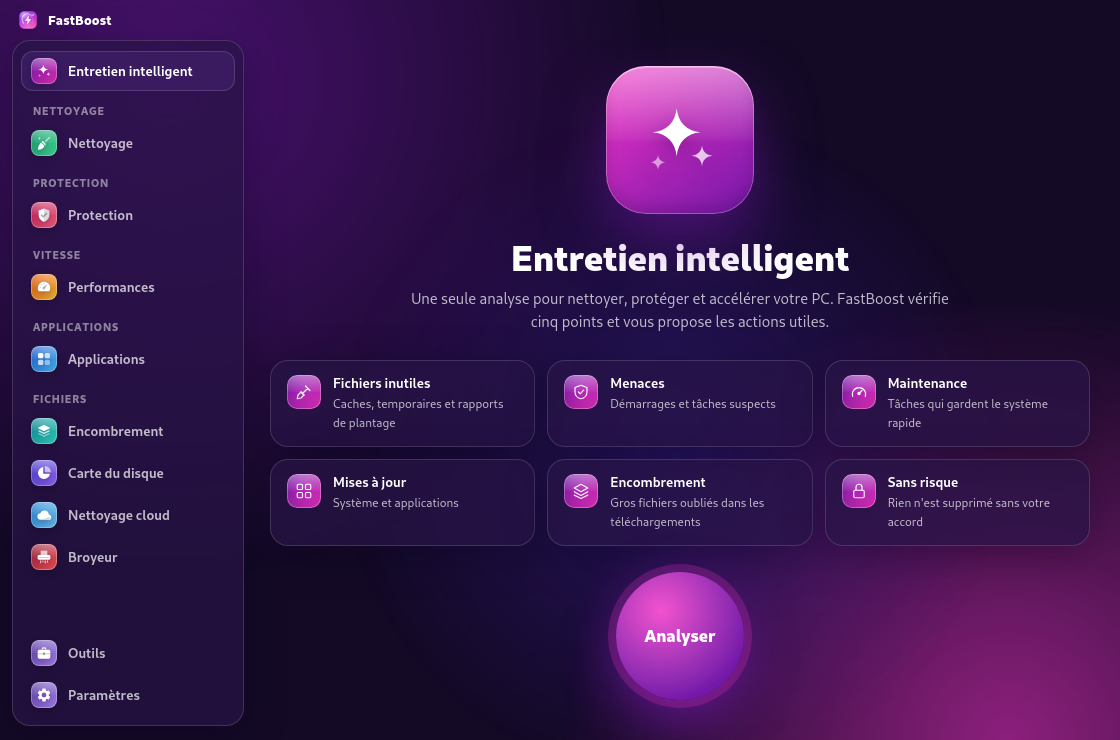
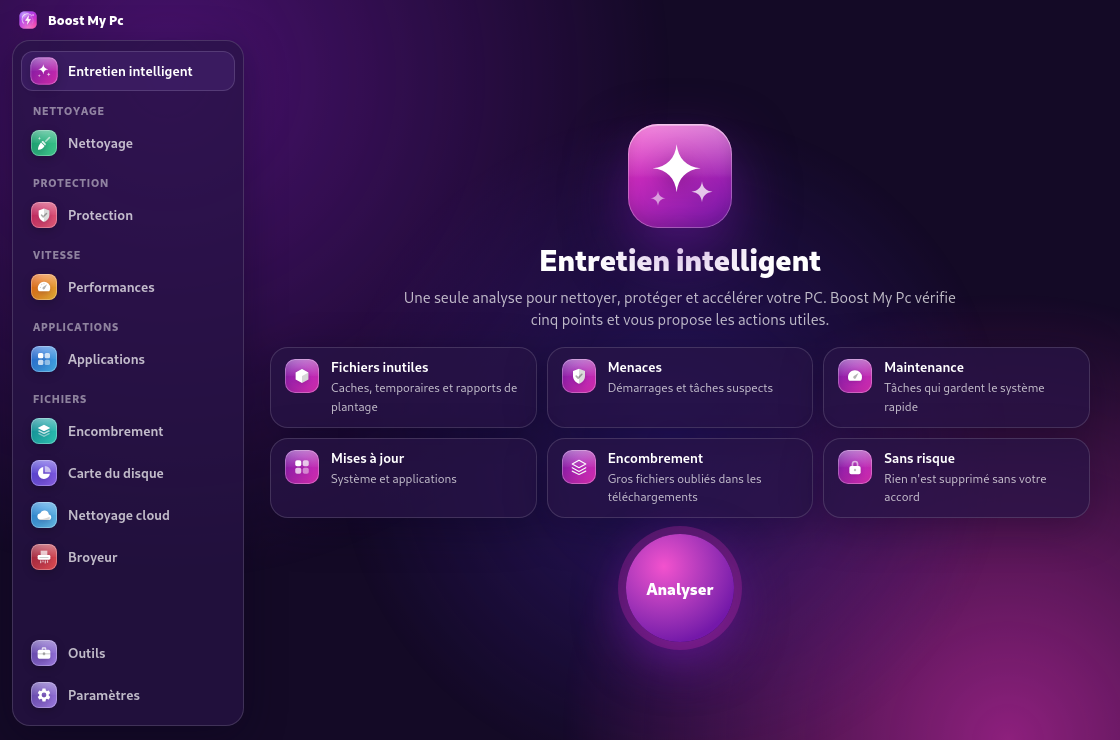
Corrections de bugs et captures du README à jour
- Démarrage : Entretien intelligent s'affiche tout de suite ; cliquer sur
  un module pendant le chargement ne ramène plus à l'accueil. Le mode
  allégé s'applique avant le premier affichage.
- Entretien intelligent : relancer après « Arrêter » n'exécute plus deux
  analyses en même temps. Tuiles compactes dans les petites fenêtres,
  hauteur limitée dans les grandes.
- Écrans d'accueil des modules : plus coupés en haut dans une petite
  fenêtre ; le bouton Analyser reste visible.
- Carte du disque : liste sous la carte dans les fenêtres étroites.
- Restes, Démarrage : bouton du coin replacé en vue liste.
- Vue d'ensemble : la carte pleine largeur n'est plus trop haute.
- Nettoyage : une icône par catégorie.
- Désinstallation et corbeille : plus d'erreur si on change de page
  pendant l'opération.
- Paramètres : plus de séparateur orphelin, « – » si la carte graphique
  est inconnue.
- README : les 13 captures Linux refaites (scripts/readme-shots.sh).

diff --git a/src/renderer/styles.css b/src/renderer/styles.css
@@ -141,7 +141,7 @@ h2 { font-size: 16px; font-weight: 800; margin: 24px 0 10px; }
 .small { font-size: 12px; }
 
 /* ---------- Module home screen ---------- */
-.intro { flex: 1; display: flex; flex-direction: column; align-items: center; justify-content: center; text-align: center; padding: 10px 0 0; }
+.intro { flex: 1; display: flex; flex-direction: column; align-items: center; justify-content: safe center; text-align: center; padding: 10px 0 0; }
 .hero-icon {
   width: 148px; height: 148px; border-radius: 40px; display: flex; align-items: center; justify-content: center; color: #fff;
   background: linear-gradient(145deg, var(--a2), var(--a1)); box-shadow: 0 24px 60px color-mix(in srgb, var(--a1) 55%, transparent), inset 0 2px 0 rgba(255, 255, 255, .35);
@@ -170,7 +170,7 @@ h2 { font-size: 16px; font-weight: 800; margin: 24px 0 10px; }
 .scan-btn:disabled { cursor: default; opacity: .7; transform: none; }
 
 /* Scan progress ring */
-.scanning { flex: 1; display: flex; flex-direction: column; align-items: center; justify-content: center; gap: 18px; text-align: center; }
+.scanning { flex: 1; display: flex; flex-direction: column; align-items: center; justify-content: safe center; gap: 18px; text-align: center; }
 .ring-big { width: 190px; height: 190px; position: relative; }
 .ring-big svg { transform: rotate(-90deg); }
 .ring-big .ring-center { position: absolute; inset: 0; display: flex; flex-direction: column; align-items: center; justify-content: center; }
@@ -260,6 +260,23 @@ input[type=checkbox] { width: 19px; height: 19px; accent-color: var(--a2); curso
 .cards { display: grid; gap: 12px; }
 .c2 { grid-template-columns: repeat(2, minmax(0, 1fr)); }
 .c3 { grid-template-columns: repeat(3, minmax(0, 1fr)); }
+@media (max-width: 1000px) { .c3 { grid-template-columns: repeat(2, minmax(0, 1fr)); } }
+/* Low windows: smaller module home screen so the button stays visible. */
+@media (max-height: 760px) {
+  .hero-icon { width: 104px; height: 104px; border-radius: 30px; margin-bottom: 14px; }
+  .hero-icon .svg-ico { width: 52px; height: 52px; }
+  .intro h1 { font-size: 30px; }
+  .intro .lead { margin-bottom: 12px; }
+  .features { margin: 4px 0 16px; gap: 10px; }
+  .feature { padding: 11px 14px; }
+  .scan-btn { width: 108px; height: 108px; font-size: 16px; }
+}
+@media (max-height: 640px) {
+  .intro .features { grid-template-columns: repeat(3, minmax(0, 1fr)); }
+  .feature { align-items: center; }
+  .feature span { display: none; }
+  .feature b { margin: 0; }
+}
 .c5 { grid-template-columns: repeat(5, minmax(0, 1fr)); }
 @media (max-width: 1100px) { .c5 { grid-template-columns: repeat(3, minmax(0, 1fr)); } .features { grid-template-columns: 1fr 1fr; } }
 .card { padding: 18px; }
@@ -330,6 +347,7 @@ input[type=checkbox] { width: 19px; height: 19px; accent-color: var(--a2); curso
 .tm-legend i, .tm-other-chip { width: 12px; height: 12px; border-radius: 4px; display: inline-block; }
 .tm-other-chip { background: repeating-linear-gradient(135deg, var(--glass-strong) 0 3px, var(--track) 3px 6px); }
 .lens-list { overflow-y: auto; max-height: 560px; }
+@media (max-width: 1000px) { .lens-wrap { grid-template-columns: minmax(0, 1fr); } .lens-list { max-height: none; } }
 .lens-list .row { min-height: 52px; gap: 10px; }
 .lens-dot { width: 12px; height: 12px; border-radius: 4px; flex-shrink: 0; box-shadow: 0 0 0 2px rgba(255, 255, 255, .15); }
 .lens-bar { margin-top: 6px; height: 5px; }
@@ -392,7 +410,9 @@ input[type=checkbox] { width: 19px; height: 19px; accent-color: var(--a2); curso
 .ov-sub { font-size: 16px; font-weight: 700; color: var(--text); opacity: .92; margin: 0 0 16px; }
 .ov-all { background: var(--glass-strong); }
 
-.ov-grid { display: grid; grid-template-columns: repeat(3, minmax(0, 1fr)); grid-auto-rows: minmax(158px, auto); gap: 14px; }
+.ov-grid { display: grid; grid-template-columns: repeat(3, minmax(0, 1fr)); grid-auto-rows: auto; gap: 14px; }
+.ov-grid > .ov-card { min-height: 158px; }
+.ov-grid > .ov-card.full { min-height: 96px; }
 .ov-card {
   position: relative; padding: 18px 18px 14px; display: flex; flex-direction: column; gap: 6px; min-height: 158px;
   border-radius: 20px; transition: transform .15s ease, background .15s ease;
@@ -519,14 +539,15 @@ body:not(.view-cards) .pick-card > .pc-sub, body:not(.view-cards) .pick-card > .
 body:not(.view-cards) .pick-card > .pc-pills { display: flex; }
 body:not(.view-cards) .pick-card > .pc-sub + .pc-sub, body:not(.view-cards) .pick-card > .bar { display: none; }
 body:not(.view-cards) .pc-foot { grid-area: foot; margin: 0; padding: 0; min-height: 0; flex-wrap: nowrap; justify-content: flex-end; }
-body:not(.view-cards) .pc-corner { position: relative; top: auto; right: auto; grid-area: corner; }
+body:not(.view-cards) .pick-card > .pc-corner { position: relative; inset: auto; grid-area: corner; }
 
 /* ---------- Smart Care: tiles around a round button ---------- */
 .sc-head { text-align: center; margin-bottom: 10px; }
 .sc-head h1 { margin: 2px 0 2px; }
 .sc-head .lead { margin: 0; min-height: 22px; }
+.page:has(> .sc-grid) { justify-content: safe center; }
 .sc-grid {
-  flex: 1; display: grid; gap: 12px;
+  flex: 1; max-height: 700px; display: grid; gap: 12px;
   grid-template-columns: minmax(0, 1fr) minmax(0, 1.45fr) minmax(0, 1fr);
   grid-template-rows: minmax(120px, 1fr) minmax(120px, 1fr) minmax(140px, auto);
   grid-template-areas: "clean hero perf" "clean hero perf" "apps center clut";
@@ -646,12 +667,42 @@ body:not(.view-cards) .pc-corner { position: relative; top: auto; right: auto; g
 .sc-hint { font-size: 12.5px; color: var(--text-2); font-weight: 700; min-height: 18px; }
 .link { border: 0; background: none; padding: 0; cursor: pointer; font-weight: 800; color: color-mix(in srgb, var(--a2) 70%, var(--text)); }
 .link:hover { text-decoration: underline; }
-@media (max-width: 1100px) {
-  .sc-grid {
-    grid-template-columns: minmax(0, 1fr) minmax(0, 1fr); grid-template-rows: none; grid-auto-rows: minmax(150px, auto);
-    grid-template-areas: "hero hero" "clean perf" "apps clut" "center center";
-  }
-  .sc-hero { min-height: 300px; }
+/* Small windows: same layout, more compact. */
+@media (max-width: 1100px), (max-height: 760px) {
+  .sc-head h1 { font-size: 25px; }
+  .sc-head .lead { font-size: 13px; }
+  .sc-head { margin-bottom: 8px; }
+  .sc-grid { gap: 10px; grid-template-rows: minmax(90px, 1fr) minmax(90px, 1fr) minmax(118px, auto); }
+  .sc-tile { padding: 14px 14px; border-radius: 22px; }
+  .sc-val { font-size: 19px; }
+  .sc-hero .sc-val { font-size: 21px; }
+  .sc-tile.wide .sc-val { font-size: 17px; }
+  .sc-sub { font-size: 11.5px; }
+  .sc-art { width: 104px; height: 104px; border-radius: 30px; right: -20px; bottom: -20px; }
+  .sc-art .svg-ico { width: 54px; height: 54px; }
+  .sc-tile.wide .sc-art { width: 92px; height: 92px; border-radius: 26px; right: -14px; bottom: -26px; }
+  .sc-tile.wide .sc-art .svg-ico { width: 46px; height: 46px; }
+  .sc-hero .sc-art { width: 130px; height: 130px; border-radius: 38px; right: -26px; top: -26px; }
+  .sc-hero .sc-art .svg-ico { width: 68px; height: 68px; }
+  .sc-log { gap: 4px; padding-top: 8px; }
+  .sc-log li { padding: 4px 10px; font-size: 12px; }
+  .sc-log-val { font-size: 11.5px; }
+  .sc-link { padding: 4px 8px 4px 12px; font-size: 11.5px; }
+  .sc-btn { width: 96px; height: 96px; font-size: 14px; }
+  .sc-btn span .svg-ico { width: 34px; height: 34px; }
+  .sc-hint { font-size: 11.5px; }
+}
+@media (max-height: 640px) {
+  .sc-head .lead { display: none; }
+  .sc-grid { grid-template-rows: minmax(80px, 1fr) minmax(80px, 1fr) minmax(104px, auto); }
+  .sc-log li { padding: 3px 10px; }
+  .sc-btn { width: 88px; height: 88px; }
+}
+@media (max-width: 1000px) {
+  .sc-text { max-width: 100%; }
+  .sc-hero .sc-text { max-width: calc(100% - 84px); }
+  .sc-tile.wide .sc-text { max-width: 100%; }
+  .sc-log-val { max-width: 48%; }
 }
 .confetti { position: fixed; width: 8px; height: 8px; border-radius: 2px; pointer-events: none; z-index: 100; animation: burst .95s cubic-bezier(.15, .7, .3, 1) both; }
 @keyframes burst { from { transform: translate(-50%, -50%); opacity: 1; } to { transform: translate(calc(var(--dx) - 50%), calc(var(--dy) - 50%)) rotate(260deg) scale(.4); opacity: 0; } }

diff --git a/src/renderer/app.js b/src/renderer/app.js
@@ -6,6 +6,7 @@ const IS_LINUX = pcm.platform === 'linux';
 document.body.classList.add(IS_LINUX ? 'linux' : 'windows');
 // Detail view mode: list by default, cards if the user chose them
 try { if (localStorage.getItem('detailView') === 'cards') document.body.classList.add('view-cards'); } catch {}
+document.body.classList.toggle('lite', !!pcm.lite);
 let CAPS = { platform: pcm.platform, tools: [], isAdmin: false };
 let PATHS = { home: '', pictures: '', downloads: '', root: '/' };
 const UPDATES_NAME = IS_LINUX ? 'Mises à jour du système' : 'Windows Update';
@@ -272,10 +273,11 @@ function bindSelection(root, { onDone, onAction, confirmText } = {}) {
     if (!paths.length) return;
     if (onAction) return onAction(paths);
     if (!(await confirmBox('Placer dans la corbeille ?', confirmText || `${plural(paths.length, 'élément sera déplacé', 'éléments seront déplacés')} vers la corbeille. Vous pourrez les restaurer.`, 'Placer dans la corbeille'))) return;
+    const t = pageToken;
     const r = await safe(() => pcm.file.trash(paths));
     if (!r) return;
     toast(`${plural(r.done, 'élément déplacé', 'éléments déplacés')} vers la corbeille${r.failed ? ` · ${r.failed} échec(s)` : ''}`);
-    onDone?.();
+    if (t === pageToken) onDone?.();
   };
   upd();
   return upd;
@@ -493,6 +495,13 @@ PAGES.cleanup = async (token) => {
   };
 };
 
+// One icon per cleanup category.
+const CLEAN_ICONS = {
+  temp: 'file', tmp: 'file', webcache: 'globe', thumbs: 'image', trash: 'box', recycle: 'box', appcache: 'apps',
+  devjunk: 'wrench', crash: 'warn', wer: 'warn', dumps: 'warn', journal: 'clock', logs: 'clock', pkgcache: 'download',
+  flatpakunused: 'download', delivery: 'update', wucache: 'update', dxcache: 'gauge', recent: 'eye',
+};
+
 function renderCleanResult(r, token) {
   const total = r.items.reduce((a, i) => a + i.size, 0);
   const empty = (i) => i.size === 0 && !(i.countOnly && i.files);
@@ -504,7 +513,7 @@ function renderCleanResult(r, token) {
     </div>
     <div class="list glass" id="clean-list">${r.items.map((i) => `
       <label class="row" style="cursor:pointer"><input type="checkbox" data-id="${i.id}" data-size="${i.size}" ${i.recommended && !empty(i) ? 'checked' : ''} ${empty(i) ? 'disabled' : ''}/>
-        <div class="r-ico tint">${ficon('broom')}</div>
+        <div class="r-ico tint">${ficon(CLEAN_ICONS[i.id] || 'box')}</div>
         <div class="r-main"><div class="r-title">${esc(i.name)} ${i.recommended ? '<span class="pill info">Recommandé</span>' : ''}</div><div class="r-sub">${esc(i.desc)}</div></div>
         <div class="r-meta">${i.countOnly ? `${i.files} élément(s)` : `<b>${fmtBytes(i.size)}</b><div class="small">${i.files || 0} fichier(s)</div>`}</div></label>`).join('')}</div>
     <div class="action-bar"><span class="summary" id="sel-size"></span><button class="btn-main" id="do-clean">Nettoyer</button></div>`);
@@ -1044,7 +1053,9 @@ async function appsUninstall(token, top) {
       b.disabled = true; b.innerHTML = '<span class="spinner"></span>';
       const r = await safe(() => pcm.apps.uninstall(a), 'Désinstallation');
       if (r) toast(r.finished ? `${a.name} a été désinstallée` : `Désinstallation de ${a.name} lancée`);
-      if (r?.finished) { all.splice(all.indexOf(a), 1); render(); } else { b.disabled = false; b.textContent = 'Désinstaller'; }
+      if (r?.finished) all.splice(all.indexOf(a), 1);
+      if (!alive(token)) return; // The user opened another page during the uninstall.
+      if (r?.finished) render(); else { b.disabled = false; b.textContent = 'Désinstaller'; }
     }));
     loadIcons();
   };
@@ -1645,12 +1656,12 @@ PAGES.settings = async (token) => {
     </div>
     <h2>Informations système</h2>
     <div class="card glass"><div class="kv">
-      <div>Appareil</div><div>${esc(info.hostname)} · ${esc([info.maker, info.model].filter(Boolean).join(' '))}</div>
+      <div>Appareil</div><div>${esc([info.hostname, [info.maker, info.model].filter(Boolean).join(' ')].filter(Boolean).join(' · ') || '–')}</div>
       <div>Système</div><div>${esc(info.os)} (${IS_LINUX ? 'noyau' : 'build'} ${esc(info.build)})</div>
       ${IS_LINUX ? `<div>Bureau</div><div>${esc([info.desktop, info.session].filter(Boolean).join(' · ') || '–')}</div>` : ''}
       <div>Processeur</div><div>${esc(info.cpu)} · ${info.cores} cœurs</div>
       <div>Mémoire</div><div>${fmtBytes(info.totalMem)}</div>
-      <div>Carte graphique</div><div>${esc(info.gpu)}</div>
+      <div>Carte graphique</div><div>${esc(info.gpu || '–')}</div>
     </div></div>
     <h2>À propos</h2>
     <div class="card glass about"><img src="../../assets/icon.png" alt=""/><div><b>Boost My Pc</b><span>Version ${esc(CAPS.version || '')}</span></div><span id="s-latest"></span></div>`);
@@ -1685,11 +1696,15 @@ pcm.onAction((a) => {
 });
 
 // ===================== Startup =====================
+// Folder paths load instantly; system information (slow on Windows) loads in the background
+// so that Smart Care shows right away and the menu responds immediately.
 (async () => {
-  try { CAPS = await pcm.caps(); } catch {}
   try { PATHS = await pcm.v2.paths(); } catch {}
+  go('smart');
+  try { CAPS = await pcm.caps(); } catch {}
   document.body.classList.toggle('lite', !!CAPS.lite);
   $('#admin-badge').textContent = IS_LINUX ? 'root' : 'Administrateur';
   $('#admin-badge').classList.toggle('hidden', !CAPS.isAdmin);
-  go('smart');
+  // Redraw the pages that show this information if one of them is open.
+  if (['tools', 'settings'].includes(currentRoute)) go(currentRoute);
 })();

diff --git a/src/services/v2/smartcare.js b/src/services/v2/smartcare.js
@@ -15,17 +15,18 @@ function downloadsDir() {
 function createSmartCare(services) {
   const { cleaner, protection, apps, storage, maintenance, malware } = services;
   let last = null;
-  let cancelled = false;
-
-  async function step(id, fn, onProgress, index) {
-    if (cancelled) throw new Error('Analyse arrêtée.');
-    onProgress?.({ step: id, index, total: 5 });
-    try { return { id, ...(await fn()) }; }
-    catch (e) { return { id, error: e.message, issues: 0 }; }
-  }
+  let current = null; // Scan in progress; a new scan stops the previous one.
 
   async function scan(onProgress) {
-    cancelled = false;
+    if (current) current.cancelled = true;
+    const run = { cancelled: false };
+    current = run;
+    const step = async (id, fn, _onProgress, index) => {
+      if (run.cancelled) throw new Error('Analyse arrêtée.');
+      onProgress?.({ step: id, index, total: 5 });
+      try { return { id, ...(await fn()) }; }
+      catch (e) { return { id, error: e.message, issues: 0 }; }
+    };
     const steps = [];
     steps.push(await step('cleanup', async () => {
       const r = await cleaner.scan('health');
@@ -53,7 +54,8 @@ function createSmartCare(services) {
       const size = files.reduce((a, f) => a + f.size, 0);
       return { files: files.slice(0, 10), count: files.length, size, issues: files.length ? 1 : 0 };
     }, onProgress, 4));
-    if (cancelled) throw new Error('Analyse arrêtée.');
+    if (run.cancelled) throw new Error('Analyse arrêtée.');
+    current = null;
     onProgress?.({ step: 'clutter', index: 5, total: 5 });
     last = { steps, at: Date.now() };
     return last;
@@ -80,7 +82,7 @@ function createSmartCare(services) {
   }
 
   // Stop the scan before its next step.
-  const cancel = () => { cancelled = true; };
+  const cancel = () => { if (current) current.cancelled = true; };
 
   return { scan, run, cancel };
 }

diff --git a/scripts/cdp-steps.js b/scripts/cdp-steps.js
@@ -1,6 +1,6 @@
 // Drive the app through DevTools with a list of steps, for the tests and screenshots.
 // Run: node scripts/cdp-steps.js <port> <folder> <step...>
-// Steps: eval:<js> | wait:<css> | sleep:<ms> | shot:<name>
+// Steps: eval:<js> | wait:<css> | sleep:<ms> | shot:<name> | size:<w>,<h> (size:0 resets) | scheme:light|dark
 const fs = require('fs');
 const [port, out, ...steps] = process.argv.slice(2);
 (async () => {
@@ -27,6 +27,10 @@ const [port, out, ...steps] = process.argv.slice(2);
     const [k, ...rest] = s.split(':'); const v = rest.join(':');
     if (k === 'eval') console.log('eval', JSON.stringify(await ev(v)));
     else if (k === 'sleep') await new Promise((r) => setTimeout(r, Number(v)));
+    else if (k === 'size') {
+      const [width, height] = v.split(',').map(Number);
+      await send('Emulation.setDeviceMetricsOverride', width ? { width, height, deviceScaleFactor: 1, mobile: false } : { width: 0, height: 0, deviceScaleFactor: 0, mobile: false });
+    } else if (k === 'scheme') await send('Emulation.setEmulatedMedia', { features: [{ name: 'prefers-color-scheme', value: v }] });
     else if (k === 'wait') {
       const t0 = Date.now();
       while (!(await ev(`!!document.querySelector(${JSON.stringify(v)})`))) {

diff --git a/src/main.js b/src/main.js
@@ -48,6 +48,8 @@ function createWindow() {
     show: false,
     webPreferences: {
       preload: path.join(__dirname, 'preload.js'),
+      // Lets the page start in lightweight mode before its first render.
+      additionalArguments: [liteMode() ? '--bmp-lite' : '--bmp-full'],
       contextIsolation: true,
       nodeIntegration: false,
       sandbox: true,

diff --git a/src/preload.js b/src/preload.js
@@ -9,6 +9,7 @@ const call = async (channel, ...args) => {
 
 contextBridge.exposeInMainWorld('pcm', {
   platform: process.platform,
+  lite: process.argv.includes('--bmp-lite'),
   caps: () => call('app:caps'),
   latest: () => call('app:latest'),
   system: {

diff --git a/README.md b/README.md
@@ -20,11 +20,11 @@ One scan checks five areas; one click applies safe actions.
 
 ![Smart Care results](docs/screenshots/v2/02-resultats-entretien.png)
 
-| Cleanup | Protection — threats |
+| Cleanup | Protection overview |
 |---|---|
-| ![Cleanup](docs/screenshots/v2/03-nettoyage.png) | ![Threats](docs/screenshots/v2/04-protection-menaces.png) |
+| ![Cleanup](docs/screenshots/v2/03-nettoyage.png) | ![Protection overview](docs/screenshots/v2/04-protection-menaces.png) |
 
-| Privacy | Performance |
+| Privacy | Performance overview |
 |---|---|
 | ![Privacy](docs/screenshots/v2/05-confidentialite.png) | ![Performance](docs/screenshots/v2/06-performances.png) |
 
@@ -40,7 +40,7 @@ One scan checks five areas; one click applies safe actions.
 |---|---|---|
 | ![Shredder](docs/screenshots/v2/11-broyeur.png) | ![Tools](docs/screenshots/v2/12-outils.png) | ![Settings](docs/screenshots/v2/13-parametres.png) |
 
-> Screenshots were captured on Debian 12 (Xvfb) with test data; the desktop panel and window controls are not shown. The Smart Care and Disk Map screenshots show version 2.0.2.
+> Screenshots were captured on Debian 12 (Xvfb) with test data; the desktop panel and window controls are not shown. They show the current version; regenerate them with `scripts/docker-v2.sh` (`scripts/readme-shots.sh` names them `readme-01` to `readme-13`).
 
 ## Modules
 
